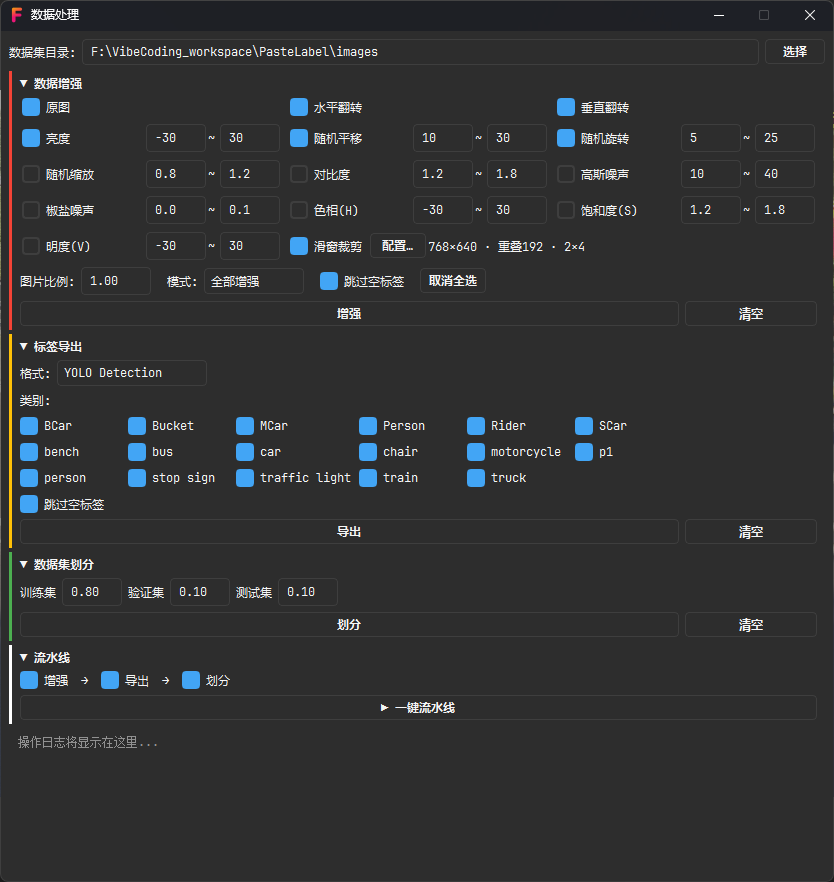
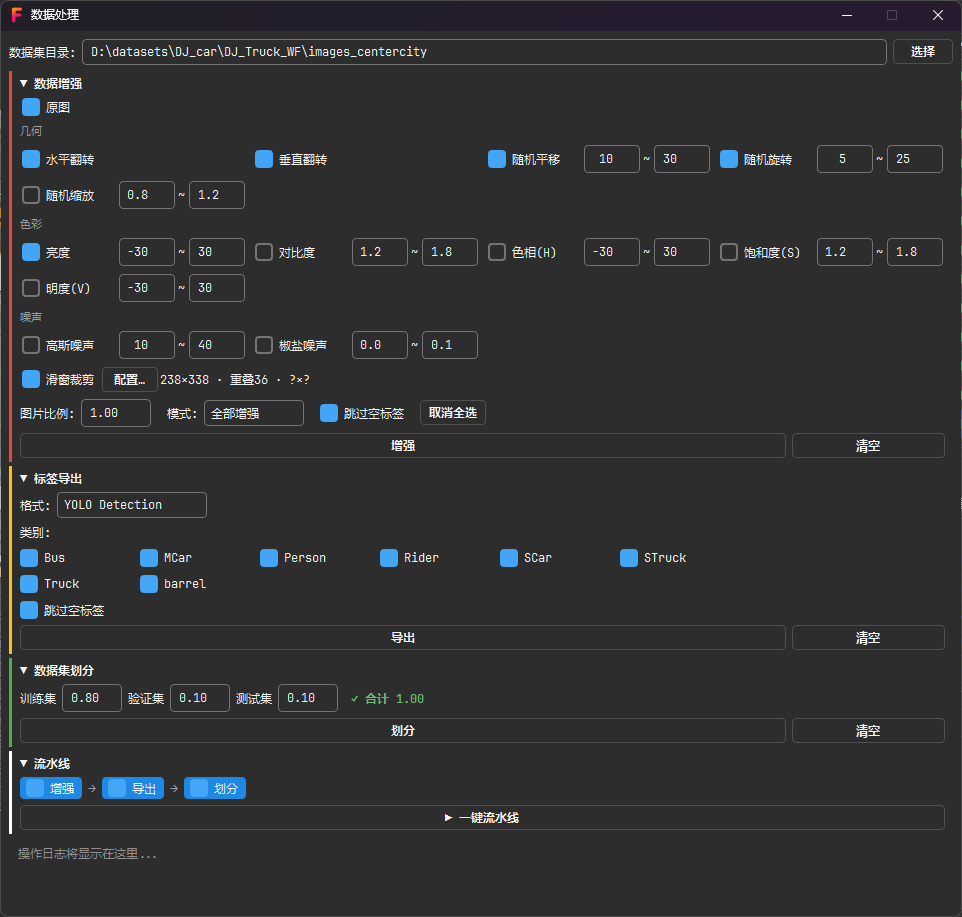
chore(release): v2.0.2
版本号 2.0.1 → 2.0.2。

release 正文改为「修复 + 界面」两段：本次没有新功能，故不设新功能章节。
只写 v2.0.1 用户真会遇到的问题——水平翻转消失、流水线文字重复、柱顶数字
竖排这三条只存在于本轮未发布的中间状态，不写进正文。

截图替换为实际改动后的界面（demo / export / stats / crop）。export 那张
尺寸由 834×882 变为 962×917，对应数据处理窗口加宽。

文档同步：数据增强分组、数据集划分合计、一键流水线步骤条、标签统计的
刻度取点与柱顶数字策略、检测框类别名字号按缩放补偿。
README 无改动——本次无新功能，功能条目仍准确。

diff --git a/labelforge/__init__.py b/labelforge/__init__.py
@@ -4,6 +4,6 @@
 
 from .ui.main_window import ImageEditor, main
 
-__version__ = "2.0.1"
+__version__ = "2.0.2"
 __author__ = "LabelForge"
 __all__ = ['ImageEditor', 'main']

diff --git a/docs/settings_guide.md b/docs/settings_guide.md
@@ -82,7 +82,7 @@
 
 | 参数 | 范围 | 默认值 | 说明 |
 |------|------|--------|------|
-| 类别名字号 | 5 ~ 15 | 9 | 检测框标签名的字体大小 |
+| 类别名字号 | 5 ~ 15 | 9 | 检测框标签名的字体大小。实际显示会按画布缩放反向补偿：放大画面时略收小、缩小时略放大，保证不同缩放下都读得清 |
 | 标签名位置 | 框外侧 / 框内侧 | 框外侧 | 标签名显示在检测框外侧或内侧 |
 | 缩放句柄大小 | 7 ~ 15 | 8 | 检测框四角手柄的尺寸（同时影响贴图句柄） |
 | 多边形最大点数 | 3 ~ 64 | 32 | 分割多边形可添加的最大顶点数 |
